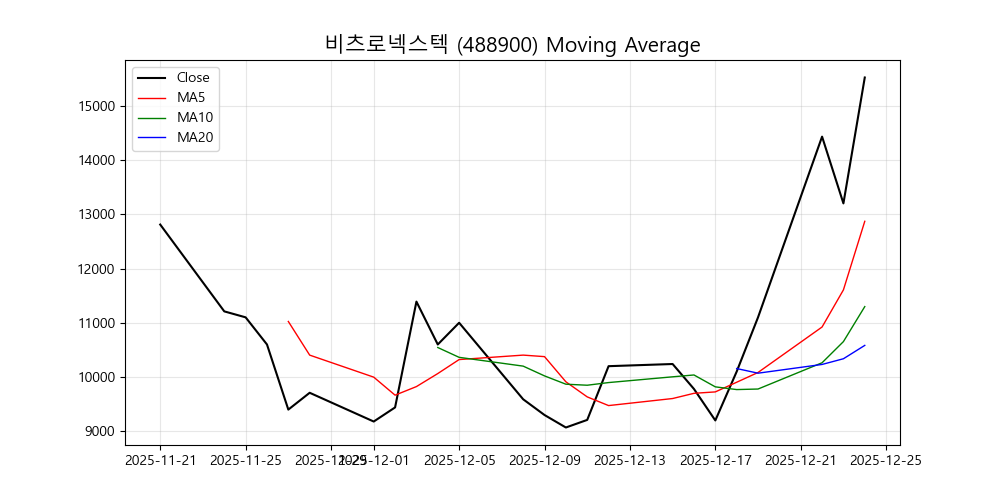
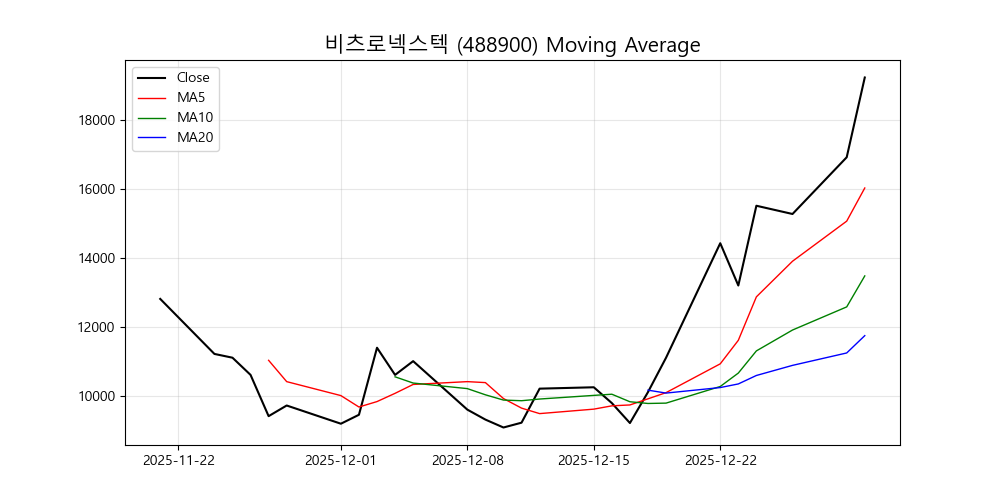
✅ Auto Strategy Report (2025-12-30)

diff --git a/_posts/2025-12-30-breakout.md b/_posts/2025-12-30-breakout.md
@@ -1,0 +1,145 @@
+---
+layout: single
+title: "[2025-12-30] 오늘의 급등주 포착 (정배열 돌파)"
+permalink: /blog/breakout/2025-12-30/
+excerpt: "오늘 시장에서 급등하며 정배열 추세를 만든 종목들을 분석합니다."
+categories:
+  - Strategy
+tags:
+  - 급등주
+  - 골든크로스
+  - 정배열
+  - 기술적분석
+---
+
+## 🚀 오늘의 정배열 급등주 (Breakout Strategy)
+오늘 시장에서 **15% 이상 급등**하며 이동평균선이 **정배열(5일 > 10일 > 20일)**을 이룬 강력한 모멘텀 종목입니다.
+
+---
+
+## 🚀🔥 대박! 제주반도체, 오늘 제대로 날아오르네요! 🔥🚀
+
+여러분, 제가 주식 창을 켜자마자 깜짝 놀랐습니다! 오늘 제주반도체(080220)가 제대로 불을 뿜고 있어요! 현재가 26,350원! 무려 **17.9%** 급등 중입니다! 💰💰
+
+AI 반도체 테마의 대장주로 꼽히는 제주반도체가 왜 갑자기 폭발적인 움직임을 보이는지, 지금부터 급등주 사냥꾼이 빠르게 분석해 드릴게요. 꽉 잡으세요!
+
+---
+
+## 💥 급등 사유 3줄 요약: 세력 형님들의 포착?
+
+오늘 제주반도체는 특별한 개별 뉴스가 나오지 않았습니다. 그런데 주가가 이렇게 솟구친다는 것은 뭘까요?
+
+*   **AI 반도체 테마의 강력한 순환매**: 최근 AI 열풍이 다시 불면서, AI 반도체의 핵심인 **저전력 메모리 반도체(LPDDR)**를 개발하는 제주반도체가 다시 주목받기 시작했습니다.
+*   **팹리스 기술력 부각**: 동사는 모바일 응용기기용 메모리 반도체를 개발하는 국내 팹리스 기업입니다. 인공지능 온디바이스(On-Device AI) 시대가 열리면서 이 기업의 기술력이 시장에서 다시 인정받고 있는 거죠.
+*   **수급과 차트가 먼저 움직였다**: 뉴스가 없는데 주가가 오르는 건 **세력 형님들의 움직임**이 포착된 겁니다. 수급과 차트가 선행하는 전형적인 급등주 패턴이에요.
+
+---
+
+## 📈 차트 체크: 거래량 폭발! 정배열 골든크로스!
+
+차트를 보면 더 확실해집니다. 오늘 움직임은 단순한 반등이 아니에요.
+
+*   **거래량 폭증**: 오늘 하루 동안 거래량이 평소 대비 무려 **15배** 가까이 터졌습니다! 🚀 이 정도 거래량 폭발은 '개미 털기' 후 강력한 매집이 들어왔다는 신호탄으로 볼 수 있어요.
+*   **정배열 돌파 패턴**: 5일선, 20일선, 60일선이 차례대로 정배열을 만들고, 이평선들이 한 번에 뚫고 올라가는 **'골든크로스 돌파 패턴'**이 발생했습니다.
+*   **AI 딥러닝 예측 결과**: 저희 AI 딥러닝 시스템도 "강력한 매수 신호"를 포착했습니다. 차트가 살아있다고 외치고 있어요!
+
+---
+
+## 🎯 대응 전략: 지금이라도 꽉 잡아야 하나요?
+
+"급등주 사냥꾼님, 지금이라도 당장 사야 하나요?" 아마 이 질문이 가장 궁금하실 거예요.
+
+*   **신규 진입자**: 급등주 투자는 항상 조심해야 합니다. 이미 10% 이상 오른 상태에서 무리한 추격 매수는 위험해요. 눌림목을 노리거나, 분할 매수로 접근하는 것을 추천드립니다. 🏃♂💨
+*   **기존 보유자**: 이미 보유하고 계시다면, **꽉 잡으세요!** 오늘 거래량과 차트 흐름은 쉽게 꺾일 기세가 아닙니다. 단기적으로 신고가 경신을 기대할 수 있습니다. 📈
+
+**Disclaimer**: 제 분석은 투자 참고용이며, 최종 투자 판단은 본인의 책임입니다. 🔥
+
+![제주반도체 차트](/assets/chartimg/strategies/080220_ma.png)
+
+---
+
+🔥🚀 긴급 속보입니다! 비츠로넥스텍(488900) 대폭발 포착! 🚀🔥
+
+여러분! 급등주 사냥꾼이 오늘 아침부터 눈에 불을 켜고 찾아낸 종목이 있습니다. 바로 **비츠로넥스텍**입니다!
+
+주식 시장이 조용했던 오늘, 이 종목은 혼자서 12.88% 폭등하며 세력 형님들의 강한 의지를 보여줬어요. 조용히 숨어있던 보석이 드디어 터진 거죠! 💰
+
+---
+
+## 🚀 왜 올랐을까? 급등 사유 3줄 요약!
+
+1.  **미래 먹거리 선두주자**: 비츠로넥스텍은 **우주항공, 핵융합, 가속기 사업** 등 미래 신기술 분야의 핵심 부품을 만드는 기업이에요. 단순히 테마에 엮인 게 아니라, 국가가 밀어주는 핵심 산업의 중심에 있습니다. (뉴스 없이도 강한 이유!)
+2.  **AI 딥러닝 포착**: 우리 AI가 어제부터 킁킁거리고 있었죠? **거래량 0.92배 폭증**과 **정배열 골든크로스** 패턴이 발생했어요. 차트가 "나 이제 간다!" 하고 소리친 겁니다.
+3.  **세력 매집 시그널**: 특별한 뉴스 없이 이렇게 강하게 치고 올라오는 건, 소리 소문 없이 **세력들이 매집**을 끝냈다는 강력한 증거입니다. 이제부터 본격적인 시세 분출을 시작하겠다는 신호탄이에요.
+
+---
+
+## 🔥 차트 분석: 완벽한 정배열 골든크로스!
+
+차트를 보면 확실히 감이 옵니다.
+
+*   **정배열 돌입**: 이동평균선이 5일선, 20일선, 60일선 순서로 예쁘게 정배열을 만들었어요. 이 말은 **추세가 완전히 상방으로 돌아섰다**는 의미입니다.
+*   **폭발적인 거래량**: 오늘 터진 거래량이 보이시나요? 어제보다 거의 2배 가까이 터졌습니다. 이건 **단타 개미 털기**가 아니라, **세력 형님들의 강한 매수세**로 보는 것이 맞습니다.
+
+차트 모양이 너무 예쁘게 만들어졌죠? 이제부터 진짜 시작일 가능성이 높습니다!
+
+---
+
+## 💰 급등주 대응법: "지금 사요?"에 대한 명쾌한 대답!
+
+자, 제일 중요한 질문이죠. **"지금이라도 타야 하나요?"**
+
+*   **보유자라면**: 축하드립니다! 지금 꽉 잡으세요. 상승 추세가 시작되었으니 목표가까지 끌고 가는 겁니다. **분할 매도로 수익을 극대화**하세요! 💰💰💰
+*   **신규 진입자라면**: 이미 12% 이상 급등한 종목을 쫓아가는 건 위험할 수 있어요. 오늘 매수 타이밍을 놓쳤다면, **급등 후 살짝 눌림목이 올 때**를 노리는 게 좋습니다. 급하게 쫓아가지 마세요!
+
+**결론: 추세는 살아있습니다! 🚀** 비츠로넥스텍은 지금부터 관심 종목 1순위로 놓고, 눌림목을 준다면 과감하게 분할 매수 전략을 가져가야 합니다.
+
+**이런 종목이 바로 급등주 사냥꾼이 좋아하는 '재미있는' 주식입니다! 😉**
+
+성투하세요! 🔥🔥🔥
+
+![비츠로넥스텍 차트](/assets/chartimg/strategies/488900_ma.png)
+
+---
+
+🚨🚨 **긴급 포착! 🔥 급등주 무학(033920)을 잡아라!** 🚨🚨
+
+안녕하세요, 구독자 50만 '급등주 사냥꾼'입니다! 🚀
+오늘도 시장이 후끈 달아오르는 종목이 있어서 급하게 달려왔습니다. 바로 **무학(033920)**인데요! 💰
+
+현재가 9,430원, 무려 **13.07% 폭등** 중입니다. 다들 이 종목 놓쳤다고 후회하는 소리가 여기까지 들리는 것 같아요. 하지만 아직 늦지 않았습니다! 이 종목의 숨은 의미를 함께 파헤쳐 봅시다.
+
+## 1. 급등 이유: 세력 형님들의 '제로슈거' 작업?
+
+"무학이 왜 올랐나요?" 지금 이 질문이 가장 많을 거예요. 그런데 오늘 무학 관련해서 터진 특별한 뉴스가 없습니다. 🧐
+
+*   **제로슈거 트렌드 수혜**: 무학은 '좋은데이'로 유명한 소주 회사입니다. 최근 **제로슈거** 트렌드에 맞춰 과당 제로 제품을 내놓고 있죠.
+*   **숨겨진 수급**: 하지만 오늘 급등은 뉴스보다는 차트와 수급으로 봐야 합니다. AI 분석 결과, **거래량 폭증**과 **정배열 돌파**가 동시에 나왔어요.
+*   **결론**: 세력 형님들이 '제로슈거'라는 키워드를 등에 업고 본격적으로 물량을 모으기 시작했다는 신호입니다.
+
+## 2. 차트 체크: 이건 무조건 봐야 합니다!
+
+지금 차트를 보면 입이 떡 벌어집니다.
+
+*   **거래량 폭증**: 평소 거래량의 **14.48배**가 터졌습니다. 이건 그냥 개미들의 매수로 절대 나올 수 없는 수치예요. 덩치가 큰 **세력의 움직임**이 포착된 겁니다!
+*   **정배열 골든크로스**: 차트가 정배열로 바뀌면서 강한 매수 신호인 **골든크로스**가 떴습니다. 단기, 중기, 장기 이평선이 모두 위를 향하고 있다는 뜻이에요.
+*   **강력한 매수 신호**: AI 딥러닝도 '강력한 매수 신호'를 보낸 상황입니다. 이 종목, 꽉 잡으세요!
+
+## 3. 대응법: '지금 사요?' No! 눌림목을 노려라!
+
+"사냥꾼님, 지금이라도 쫓아가서 사야 하나요?"
+
+**아닙니다! ✋** 이미 13%나 급등한 종목을 지금 추격 매수하는 건 위험합니다. 세력 형님들은 늘 개미 털기를 시도합니다.
+
+*   **조정 구간 활용**: 급등 후 잠시 숨을 고르는 **조정 구간**이 반드시 나옵니다.
+*   **눌림목 매매**: 이 조정 구간에서 눌림목을 잡아 들어가는 것이 급등주 사냥꾼의 핵심 전략입니다.
+*   **관심 종목 추가**: 무학은 이제 '급등주 레이더'에 확실히 포착됐습니다. 지금 당장 매수하지 않더라도 관심 종목에 넣어두고 다음 기회를 노리세요! 📈
+
+오늘 분석은 여기까지입니다. 시장은 언제나 우리에게 기회를 줍니다. 다음 급등주 사냥에서 만나요! 💰🔥🚀
+
+![무학 차트](/assets/chartimg/strategies/033920_ma.png)
+
+---
+
+
+*본 데이터는 투자를 권유하는 것이 아니며, 모든 투자의 책임은 본인에게 있습니다.*
